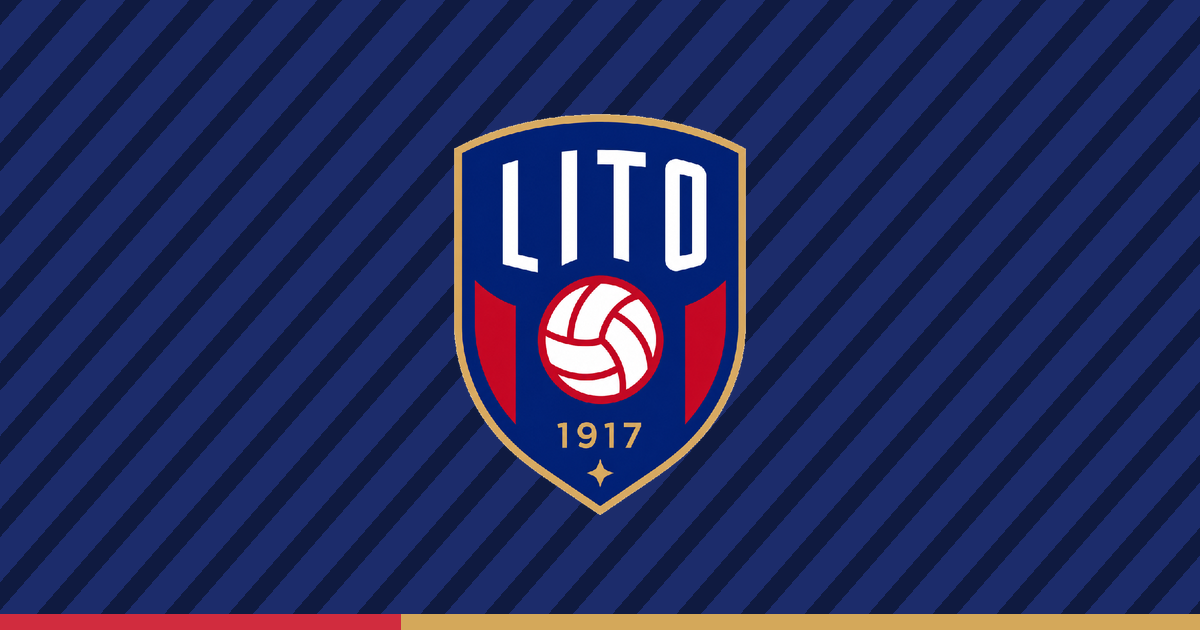
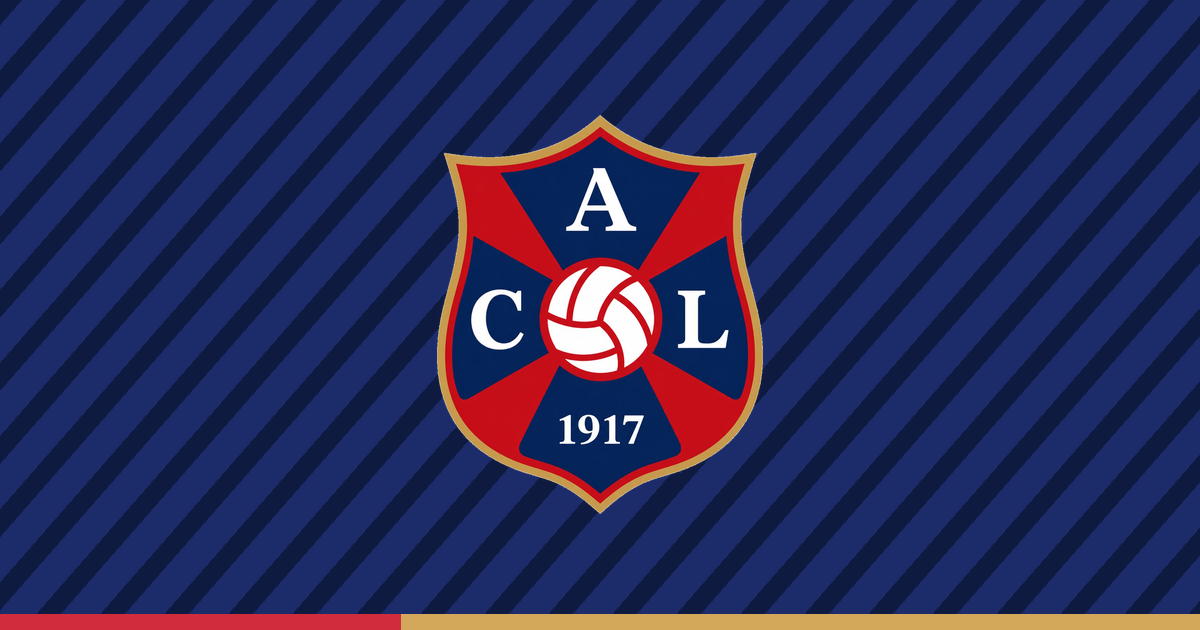
Escudo nuevo en todas las piezas
Se reemplaza el escudo por el blasón de cuarteles rojo y azul con las letras
A C L, la pelota al centro y el año al pie.

Regenerado en todos sus usos: escudo.png (cabecera y colofón), escudo-180.png,
favicon.png, og.png y escudo-tapa.png, este último con el troquel en relieve y
el grano del cuero atravesándolo. El fondo blanco se quita por relleno desde
las esquinas, así los blancos internos —las letras y la pelota— no se vacían.
Cambió la proporción (0,82 contra 0,73), así que se actualizaron los atributos
width y height del marcado.

Claude-Session: https://claude.ai/code/session_016RdKxc9NMecg14L2oBtH98

Changed region(s): [[0.3392, 0.181, 0.6475, 0.8143]]

diff --git a/club.html b/club.html
@@ -26,7 +26,7 @@
 <header class="cabecera">
   <div class="marco cabecera-fila">
     <a class="marca" href="index.html">
-      <img src="assets/img/escudo.png" alt="" width="720" height="981">
+      <img src="assets/img/escudo.png" alt="" width="720" height="879">
       <span class="marca-texto">Centro Atlético Lito
         <small>Montevideo · 1917</small>
       </span>
@@ -153,7 +153,7 @@
   <div class="marco">
     <div class="pie-grilla">
       <div class="pie-escudo">
-        <img src="assets/img/escudo.png" alt="" width="720" height="981" loading="lazy">
+        <img src="assets/img/escudo.png" alt="" width="720" height="879" loading="lazy">
         <div>
           <strong>Centro Atlético Lito</strong><br>
           Arroyo Seco, Montevideo, Uruguay.<br>

diff --git a/contacto.html b/contacto.html
@@ -26,7 +26,7 @@
 <header class="cabecera">
   <div class="marco cabecera-fila">
     <a class="marca" href="index.html">
-      <img src="assets/img/escudo.png" alt="" width="720" height="981">
+      <img src="assets/img/escudo.png" alt="" width="720" height="879">
       <span class="marca-texto">Centro Atlético Lito
         <small>Montevideo · 1917</small>
       </span>
@@ -100,7 +100,7 @@
   <div class="marco">
     <div class="pie-grilla">
       <div class="pie-escudo">
-        <img src="assets/img/escudo.png" alt="" width="720" height="981" loading="lazy">
+        <img src="assets/img/escudo.png" alt="" width="720" height="879" loading="lazy">
         <div>
           <strong>Centro Atlético Lito</strong><br>
           Arroyo Seco, Montevideo, Uruguay.<br>

diff --git a/socios.html b/socios.html
@@ -26,7 +26,7 @@
 <header class="cabecera">
   <div class="marco cabecera-fila">
     <a class="marca" href="index.html">
-      <img src="assets/img/escudo.png" alt="" width="720" height="981">
+      <img src="assets/img/escudo.png" alt="" width="720" height="879">
       <span class="marca-texto">Centro Atlético Lito
         <small>Montevideo · 1917</small>
       </span>
@@ -123,7 +123,7 @@
   <div class="marco">
     <div class="pie-grilla">
       <div class="pie-escudo">
-        <img src="assets/img/escudo.png" alt="" width="720" height="981" loading="lazy">
+        <img src="assets/img/escudo.png" alt="" width="720" height="879" loading="lazy">
         <div>
           <strong>Centro Atlético Lito</strong><br>
           Arroyo Seco, Montevideo, Uruguay.<br>

diff --git a/fixture.html b/fixture.html
@@ -26,7 +26,7 @@
 <header class="cabecera">
   <div class="marco cabecera-fila">
     <a class="marca" href="index.html">
-      <img src="assets/img/escudo.png" alt="" width="720" height="981">
+      <img src="assets/img/escudo.png" alt="" width="720" height="879">
       <span class="marca-texto">Centro Atlético Lito
         <small>Montevideo · 1917</small>
       </span>
@@ -96,7 +96,7 @@
   <div class="marco">
     <div class="pie-grilla">
       <div class="pie-escudo">
-        <img src="assets/img/escudo.png" alt="" width="720" height="981" loading="lazy">
+        <img src="assets/img/escudo.png" alt="" width="720" height="879" loading="lazy">
         <div>
           <strong>Centro Atlético Lito</strong><br>
           Arroyo Seco, Montevideo, Uruguay.<br>

diff --git a/noticias.html b/noticias.html
@@ -26,7 +26,7 @@
 <header class="cabecera">
   <div class="marco cabecera-fila">
     <a class="marca" href="index.html">
-      <img src="assets/img/escudo.png" alt="" width="720" height="981">
+      <img src="assets/img/escudo.png" alt="" width="720" height="879">
       <span class="marca-texto">Centro Atlético Lito
         <small>Montevideo · 1917</small>
       </span>
@@ -79,7 +79,7 @@
   <div class="marco">
     <div class="pie-grilla">
       <div class="pie-escudo">
-        <img src="assets/img/escudo.png" alt="" width="720" height="981" loading="lazy">
+        <img src="assets/img/escudo.png" alt="" width="720" height="879" loading="lazy">
         <div>
           <strong>Centro Atlético Lito</strong><br>
           Arroyo Seco, Montevideo, Uruguay.<br>

diff --git a/plantel.html b/plantel.html
@@ -26,7 +26,7 @@
 <header class="cabecera">
   <div class="marco cabecera-fila">
     <a class="marca" href="index.html">
-      <img src="assets/img/escudo.png" alt="" width="720" height="981">
+      <img src="assets/img/escudo.png" alt="" width="720" height="879">
       <span class="marca-texto">Centro Atlético Lito
         <small>Montevideo · 1917</small>
       </span>
@@ -96,7 +96,7 @@
   <div class="marco">
     <div class="pie-grilla">
       <div class="pie-escudo">
-        <img src="assets/img/escudo.png" alt="" width="720" height="981" loading="lazy">
+        <img src="assets/img/escudo.png" alt="" width="720" height="879" loading="lazy">
         <div>
           <strong>Centro Atlético Lito</strong><br>
           Arroyo Seco, Montevideo, Uruguay.<br>

diff --git a/index.html b/index.html
@@ -99,7 +99,7 @@
     <div class="tapa">
       <span class="cara cara-frente" aria-hidden="true">
         <span class="grabado-arriba">Centro Atlético</span>
-        <img class="escudo-tapa" src="assets/img/escudo-tapa.png" alt="Escudo del Centro Atlético Lito" width="760" height="1009" fetchpriority="high">
+        <img class="escudo-tapa" src="assets/img/escudo-tapa.png" alt="Escudo del Centro Atlético Lito" width="760" height="911" fetchpriority="high">
         <span class="lema">Garra y Corazón</span>
         <span class="grabado-abajo">Montevideo · 1917</span>
       </span>

diff --git a/build.py b/build.py
@@ -70,7 +70,7 @@ def cabecera_hoja(actual):
 <header class="cabecera">
   <div class="marco cabecera-fila">
     <a class="marca" href="index.html">
-      <img src="assets/img/escudo.png" alt="" width="720" height="981">
+      <img src="assets/img/escudo.png" alt="" width="720" height="879">
       <span class="marca-texto">Centro Atlético Lito
         <small>Montevideo · 1917</small>
       </span>
@@ -113,7 +113,7 @@ def colofon():
   <div class="marco">
     <div class="pie-grilla">
       <div class="pie-escudo">
-        <img src="assets/img/escudo.png" alt="" width="720" height="981" loading="lazy">
+        <img src="assets/img/escudo.png" alt="" width="720" height="879" loading="lazy">
         <div>
           <strong>Centro Atlético Lito</strong><br>
           Arroyo Seco, Montevideo, Uruguay.<br>
@@ -213,7 +213,7 @@ def pagina_portada():
     <div class="tapa">
       <span class="cara cara-frente" aria-hidden="true">
         <span class="grabado-arriba">Centro Atlético</span>
-        <img class="escudo-tapa" src="assets/img/escudo-tapa.png" alt="Escudo del Centro Atlético Lito" width="760" height="1009" fetchpriority="high">
+        <img class="escudo-tapa" src="assets/img/escudo-tapa.png" alt="Escudo del Centro Atlético Lito" width="760" height="911" fetchpriority="high">
         <span class="lema">Garra y Corazón</span>
         <span class="grabado-abajo">Montevideo · 1917</span>
       </span>
